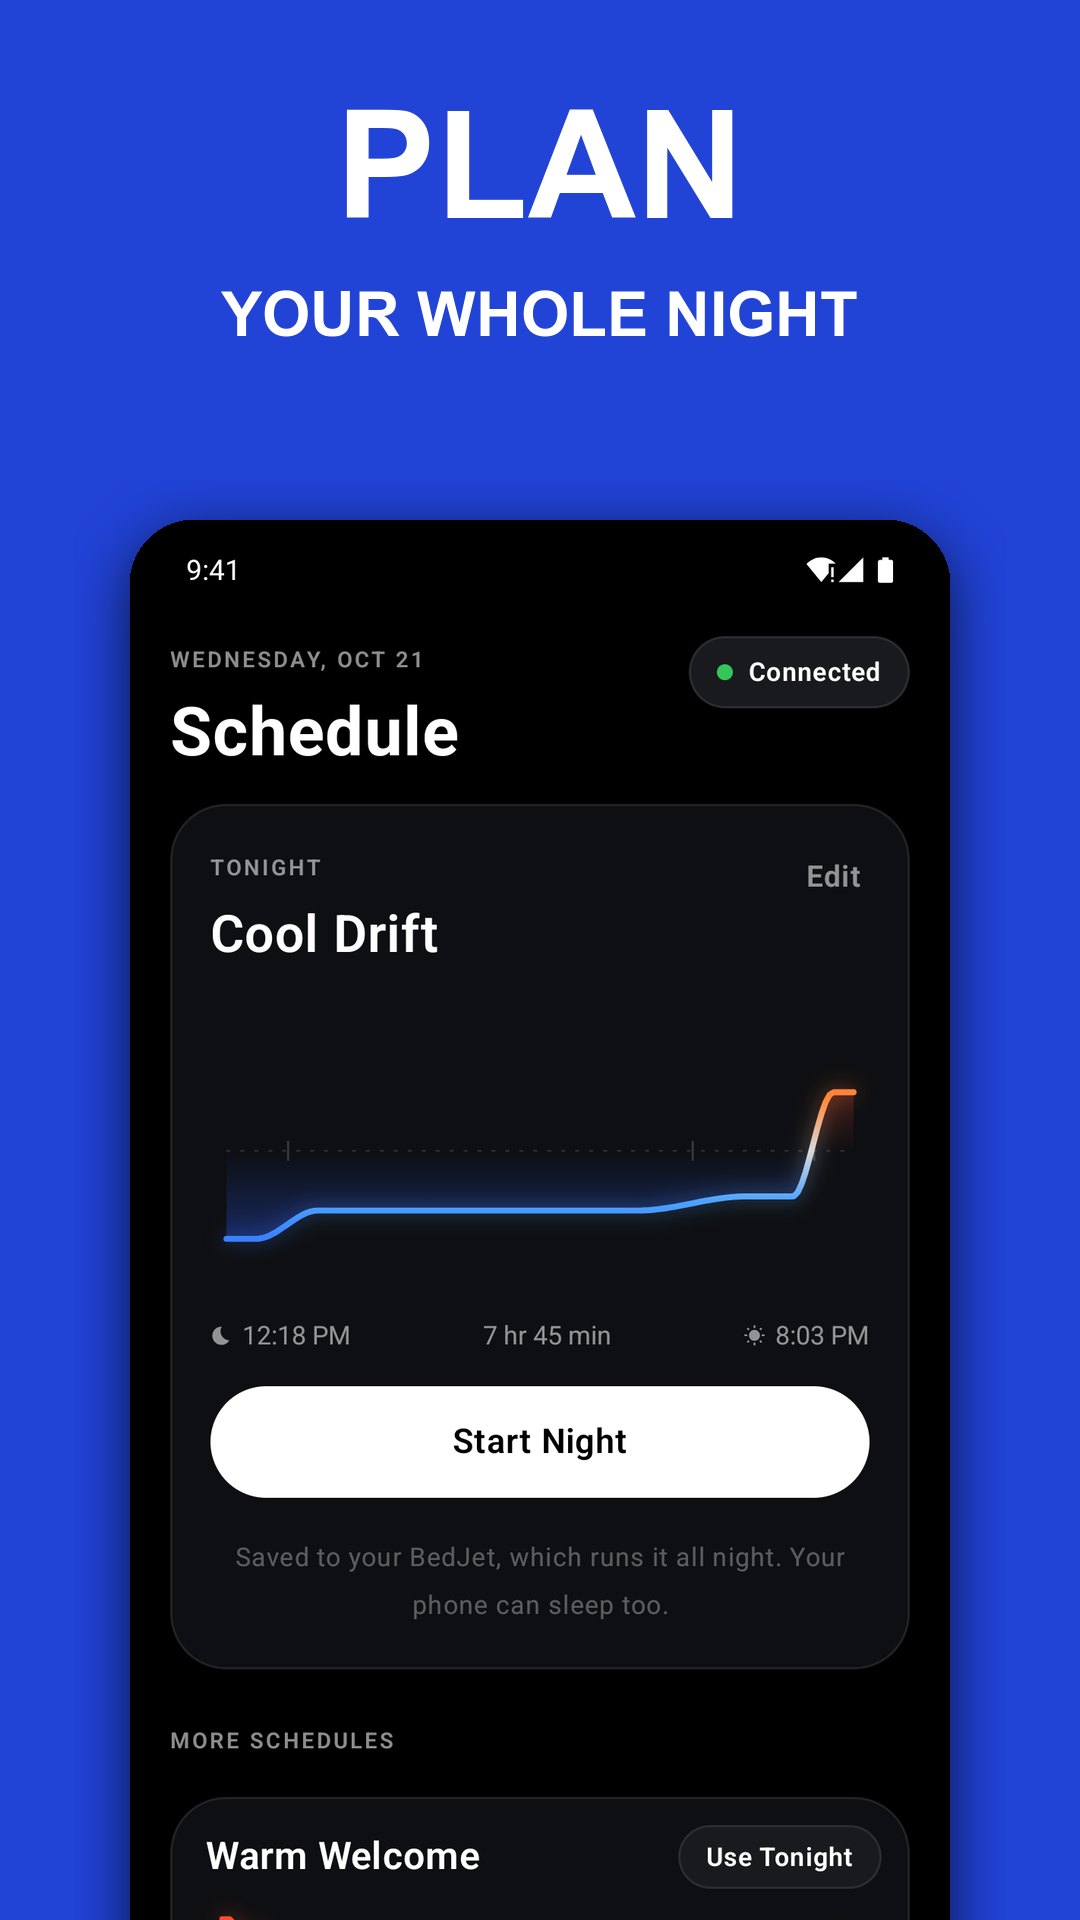
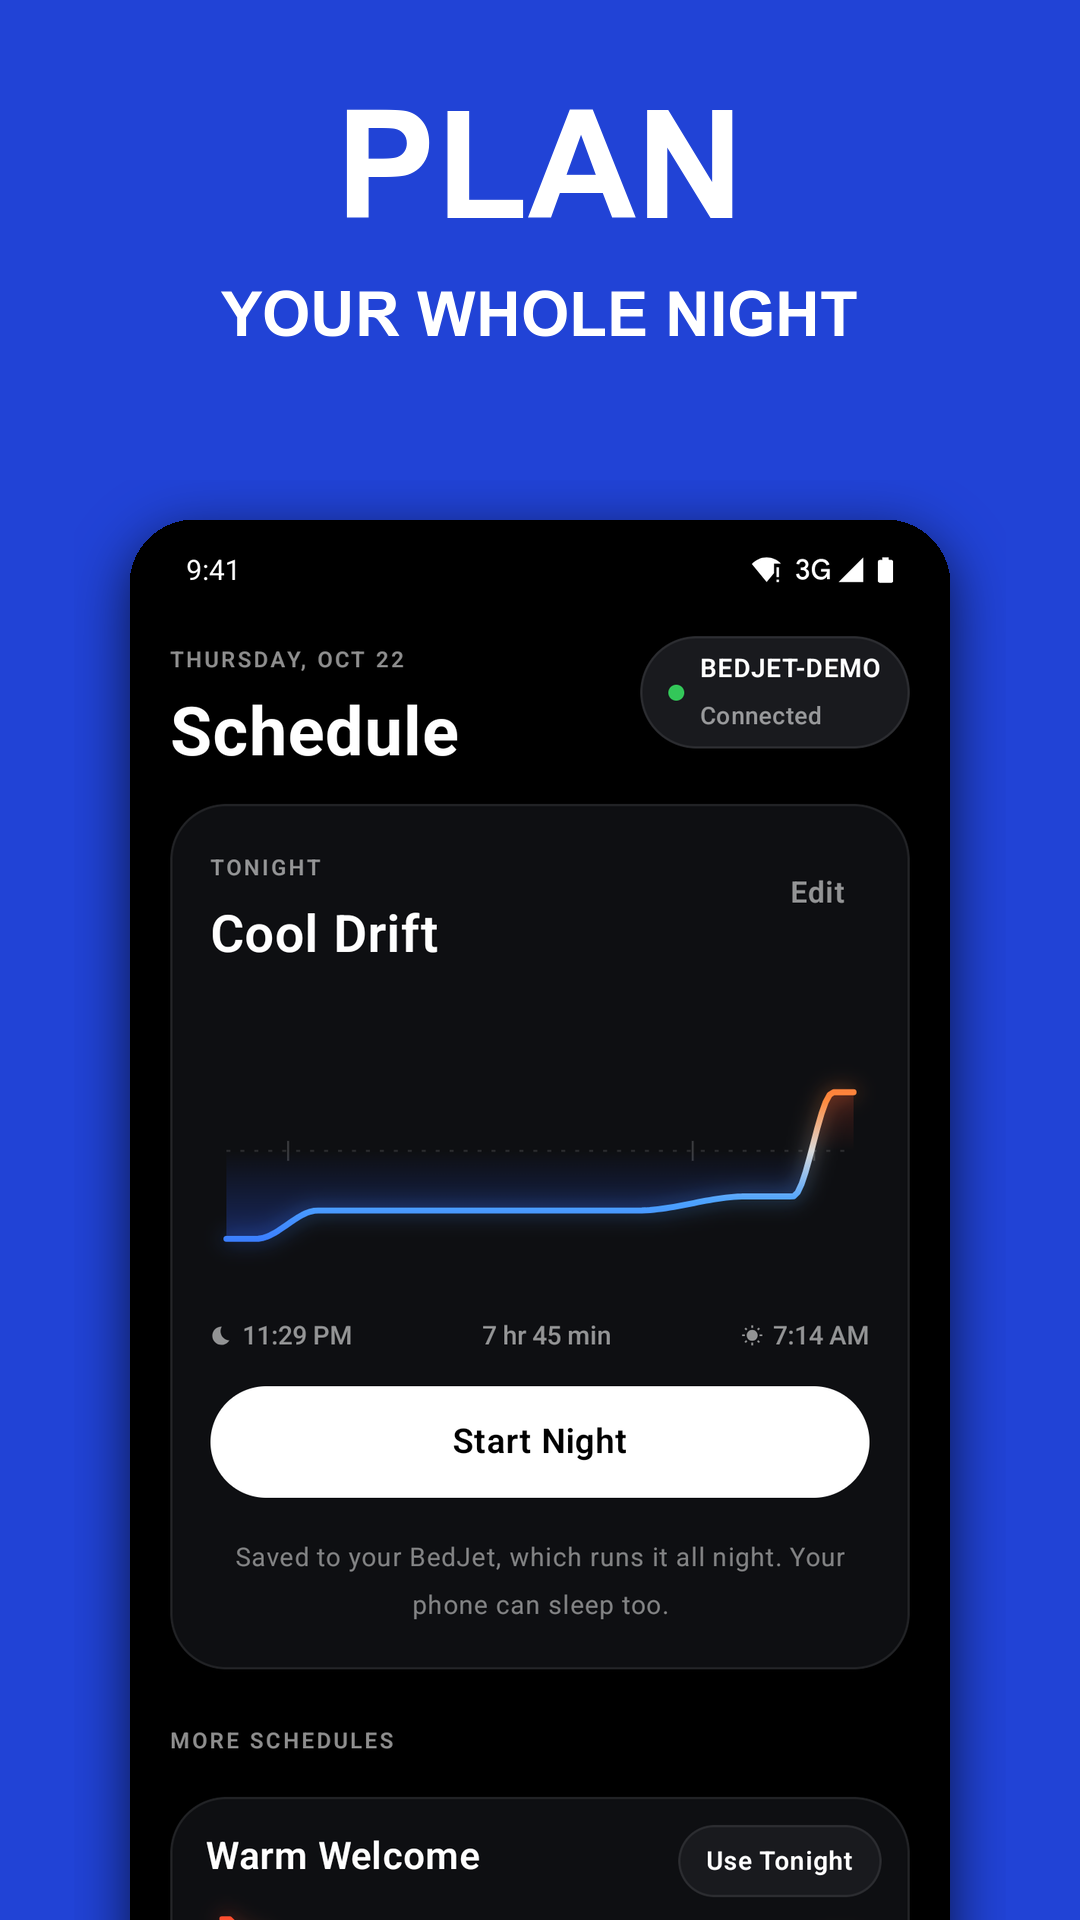
Update the privacy policy for the V2 and nicknames, and refresh the Play screenshots

diff --git a/PRIVACY.md b/PRIVACY.md
@@ -1,8 +1,8 @@
 # Lull privacy policy
 
-_Last updated: October 21, 2026_
+_Last updated: October 22, 2026_
 
-Lull is a Bluetooth remote and scheduler for the BedJet 3, made by Rohan Kanjani. It is available for
+Lull is a Bluetooth remote and scheduler for the BedJet 3 and BedJet V2, made by Rohan Kanjani. It is available for
 iPhone and Android.
 
 ## What Lull collects
@@ -14,8 +14,9 @@ requests.
 
 - **Your schedules and settings** are stored on your phone. If your phone backs up apps (iCloud backup
   or Android backup), they are included in that backup under your own account.
-- **Which BedJet you use**: Lull remembers your BedJet's Bluetooth identifier and name so it can
-  reconnect quickly. This stays on the phone and is not included in backups.
+- **Which BedJets you use**: Lull remembers each BedJet you pick, by its Bluetooth identifier and name,
+  with any nickname you give it, so it connects only to those and reconnects quickly. Seeing which
+  BedJets are nearby happens on the phone; nothing about them leaves it.
 
 ## Bluetooth
 
